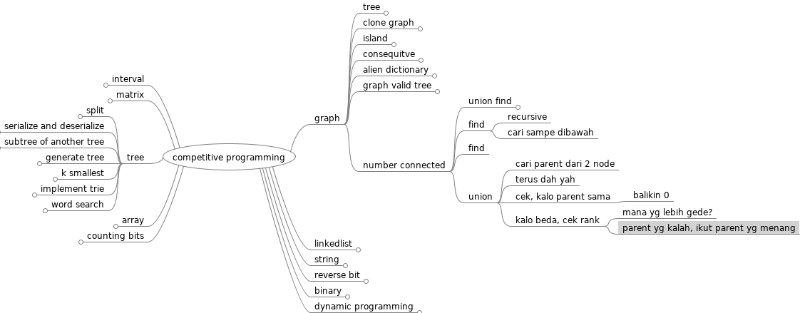
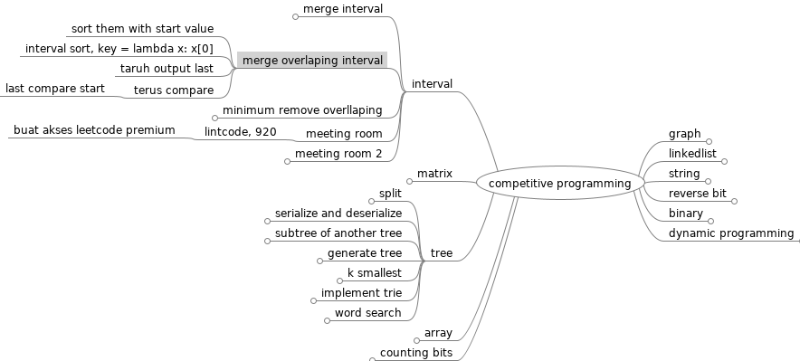
update lecture notes

Changed region(s): [[0.0, 0.0, 1.0, 1.0], [0.0938, 0.6326, 0.2188, 0.7764], [0.2812, 0.4313, 0.3125, 0.4601]]

diff --git a/competitive programming.mm b/competitive programming.mm
@@ -1,7 +1,7 @@
 <map version="1.1.0">
 <!-- To view this file, download free mind mapping software FreeMind from http://freemind.sourceforge.net -->
 <node CREATED="1646040817660" ID="ID_1566415613" MODIFIED="1646040829106" TEXT="competitive programming">
-<node CREATED="1646040829377" ID="ID_839731922" MODIFIED="1648264250165" POSITION="right" TEXT="graph">
+<node CREATED="1646040829377" FOLDED="true" ID="ID_839731922" MODIFIED="1648739684711" POSITION="right" TEXT="graph">
 <node CREATED="1646040831781" FOLDED="true" ID="ID_493688574" MODIFIED="1648599356240" TEXT="tree">
 <node CREATED="1646040833327" ID="ID_1104164520" MODIFIED="1646040841278" TEXT="dfs(node, prev)"/>
 <node CREATED="1646040844826" ID="ID_451241589" MODIFIED="1646040854493" TEXT="if visited == number node"/>
@@ -55,7 +55,7 @@
 </node>
 <node CREATED="1648637786553" ID="ID_469201093" MODIFIED="1648637793151" TEXT="empty graph, count as tree"/>
 </node>
-<node CREATED="1648717113886" ID="ID_9819738" MODIFIED="1648717117416" TEXT="number connected">
+<node CREATED="1648717113886" FOLDED="true" ID="ID_9819738" MODIFIED="1648739681187" TEXT="number connected">
 <node CREATED="1648717117647" FOLDED="true" ID="ID_1040742056" MODIFIED="1648717960286" TEXT="union find">
 <node CREATED="1648717121064" ID="ID_311286742" MODIFIED="1648717124046" TEXT="parent array"/>
 <node CREATED="1648717954698" ID="ID_1829570777" MODIFIED="1648717957461" TEXT="find "/>
@@ -66,7 +66,7 @@
 <node CREATED="1648717965674" ID="ID_729710384" MODIFIED="1648717969262" TEXT="cari sampe dibawah"/>
 </node>
 <node CREATED="1648732429610" ID="ID_1869522810" MODIFIED="1648732434779" TEXT="find"/>
-<node CREATED="1648732435030" ID="ID_482465072" MODIFIED="1648732437057" TEXT="union">
+<node CREATED="1648732435030" FOLDED="true" ID="ID_482465072" MODIFIED="1648739679356" TEXT="union">
 <node CREATED="1648732439426" ID="ID_1326432219" MODIFIED="1648732449128" TEXT="cari parent dari 2 node"/>
 <node CREATED="1648732449363" ID="ID_1892940960" MODIFIED="1648732453026" TEXT="terus dah yah"/>
 <node CREATED="1648732453309" ID="ID_1075283532" MODIFIED="1648732460962" TEXT="cek, kalo parent sama">
@@ -79,18 +79,18 @@
 </node>
 </node>
 </node>
-<node CREATED="1646042768605" FOLDED="true" ID="ID_1626162585" MODIFIED="1648264247545" POSITION="left" TEXT="interval">
-<node CREATED="1646042771777" FOLDED="true" ID="ID_1634495326" MODIFIED="1648243096897" TEXT="merge interval">
+<node CREATED="1646042768605" ID="ID_1626162585" MODIFIED="1648739686304" POSITION="left" TEXT="interval">
+<node CREATED="1646042771777" FOLDED="true" ID="ID_1634495326" MODIFIED="1648739698175" TEXT="merge interval">
 <node CREATED="1646042797813" ID="ID_1076706200" MODIFIED="1646042802348" TEXT="min on left"/>
 <node CREATED="1646042802615" ID="ID_738480467" MODIFIED="1646042806932" TEXT="max on right"/>
-<node CREATED="1646044007304" FOLDED="true" ID="ID_1320464022" MODIFIED="1648243094294" TEXT="kondisi">
+<node CREATED="1646044007304" FOLDED="true" ID="ID_1320464022" MODIFIED="1648739696304" TEXT="kondisi">
 <node CREATED="1646044010577" ID="ID_1647787940" MODIFIED="1646044013886" TEXT="di kiri"/>
 <node CREATED="1646044014127" ID="ID_731904336" MODIFIED="1646044016250" TEXT="di kanan"/>
 <node CREATED="1646044016490" ID="ID_554607601" MODIFIED="1646044018435" TEXT="merge"/>
 <node CREATED="1646044020147" ID="ID_1557394914" MODIFIED="1646044029102" TEXT="cek juga kalo perlu di add"/>
 </node>
 </node>
-<node CREATED="1646056434237" FOLDED="true" ID="ID_997227692" MODIFIED="1646060582686" TEXT="merge overlaping interval">
+<node CREATED="1646056434237" ID="ID_997227692" MODIFIED="1648739699684" TEXT="merge overlaping interval">
 <node CREATED="1646056441370" ID="ID_980560716" MODIFIED="1646056554098" TEXT="sort them with start value"/>
 <node CREATED="1646056738825" ID="ID_1501867584" MODIFIED="1646056754727" TEXT="interval sort, key = lambda x: x[0]"/>
 <node CREATED="1646057645875" ID="ID_1294745622" MODIFIED="1646057651737" TEXT="taruh output last"/>
